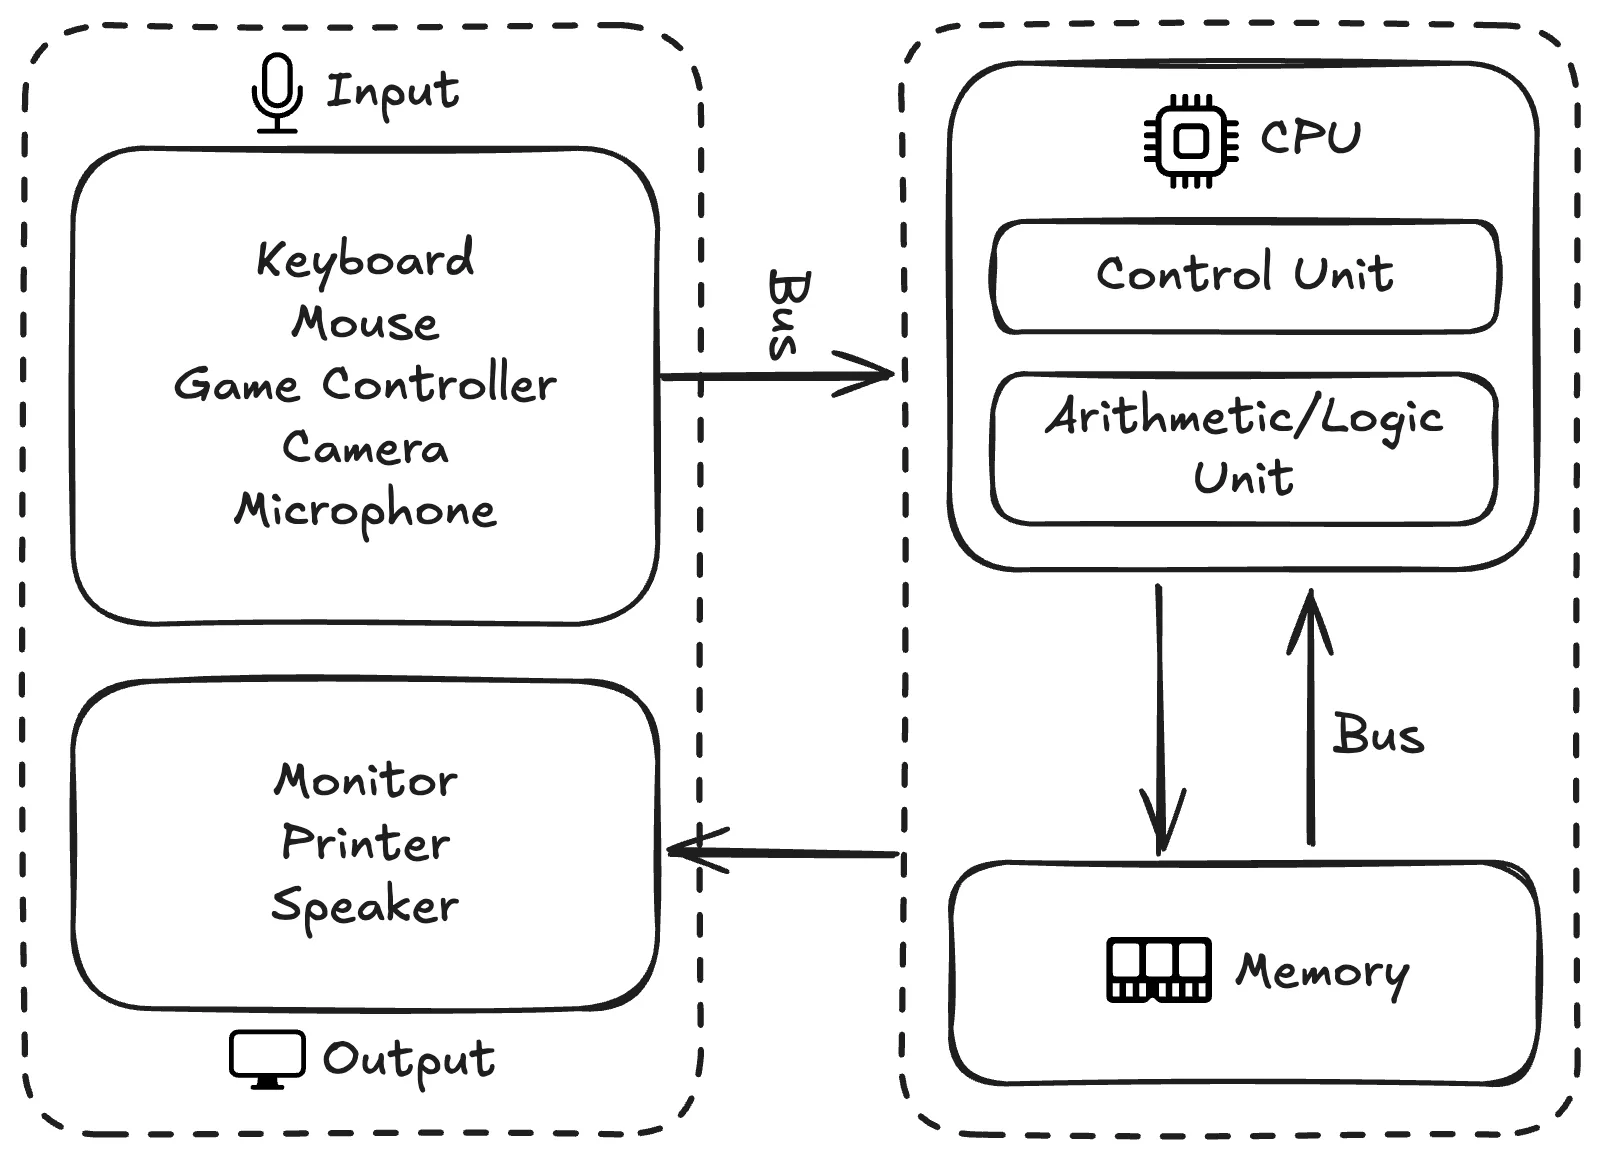
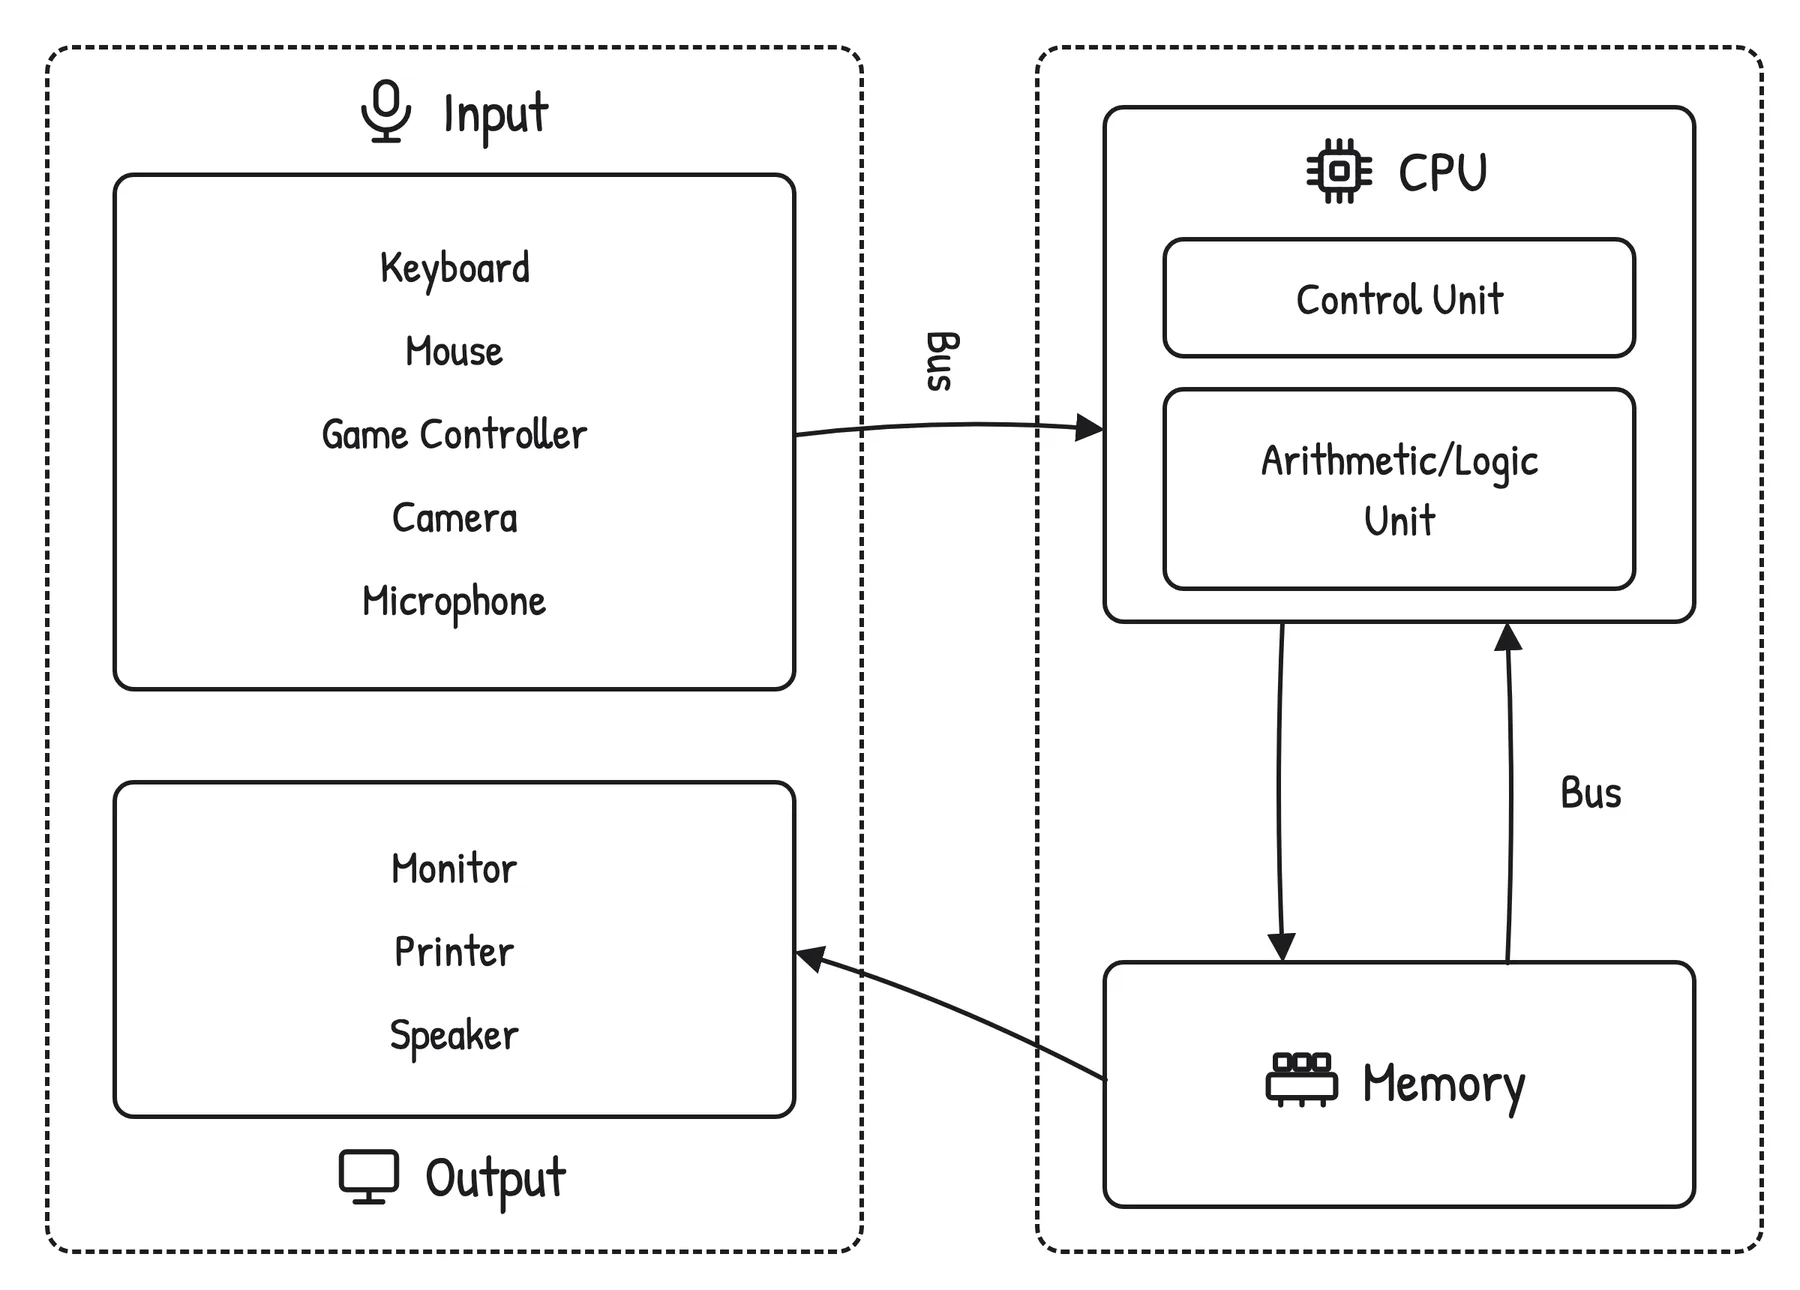
docs: add overview images to ai-system posts

diff --git a/content/ai-system/cloud-deployment/index.md b/content/ai-system/cloud-deployment/index.md
@@ -18,6 +18,10 @@ The standard answer to this is to rent a computer somewhere else and run our con
 That somewhere else is what people call ["the cloud"](https://en.wikipedia.org/wiki/Cloud_computing): a fleet of computers sitting in [data centers](https://en.wikipedia.org/wiki/Data_center) operated by companies that specialize in keeping them powered, cooled, and connected to the internet.
 We rent some slice of that capacity by the hour or the month, log into it remotely, and run whatever we want.
 
+![](cloud.webp)
+
+{% cap() %}Behind the "cloud" are physical servers in a data center, which a hypervisor splits into the virtual machines we rent.{% end %}
+
 In this module we walk through what the cloud actually is under the hype, look at the main types of services cloud providers sell, and then deploy our containerized AI server to a small rented machine.
 Once the server is running publicly, we will also cover what it takes to make it look professional: a domain name, an HTTPS certificate, and a reverse proxy in front.
 

diff --git a/content/ai-system/container-fundamentals/index.md b/content/ai-system/container-fundamentals/index.md
@@ -23,6 +23,10 @@ A **container** is a self-contained package of a program plus everything the pro
 Once our AI server is in a container, deploying it to another machine becomes one or two commands.
 Containers are arguably the most important reason AI deployment at cloud scale is even practical today, and they are the focus of the rest of Part B.
 
+![](container-ship.webp)
+
+{% cap() %}AI applications packaged as containers. Each container is a stack of layers.{% end %}
+
 In this module we will look at what containers are, how they work, and how to use existing container images to run software on our own machine.
 In [Module B.3](@/ai-system/ai-container/index.md) we will go a step further and package our own AI API server as a container.
 

diff --git a/content/ai-system/interact-ais/index.md b/content/ai-system/interact-ais/index.md
@@ -24,3 +24,7 @@ In [Module A.4](@/ai-system/ai-api-server/index.md) we will go a bit deeper and 
 In the end, we will be capable of implementing a system with AI functionalities powered by AI models, while allowing streamlined interaction from various types of software on the market.
 In other words, a system we can confidently call an AI system, fully featured and ready to be deployed in the real world to inflate the AI bubble even more.
 
+![](part-a-overview.webp)
+
+{% cap() %}Clients reach AI models through API endpoints exposed by API servers.{% end %}
+

diff --git a/content/ai-system/infra-deploy-ai/index.md b/content/ai-system/infra-deploy-ai/index.md
@@ -25,3 +25,7 @@ Finally, we will discuss two types of common hardware infrastructure, other than
 
 At the end of this part, we will have all the important knowledge needed for us to replicate standard industry practices used by these companies to scale up their AI systems.
 Of course, the physical hardware and the absurd funding needed to do so are not included.
+
+![](part-b-overview.webp)
+
+{% cap() %}AI models run in containers on edge devices and in data centers, and serve clients through API endpoints over the internet.{% end %}
